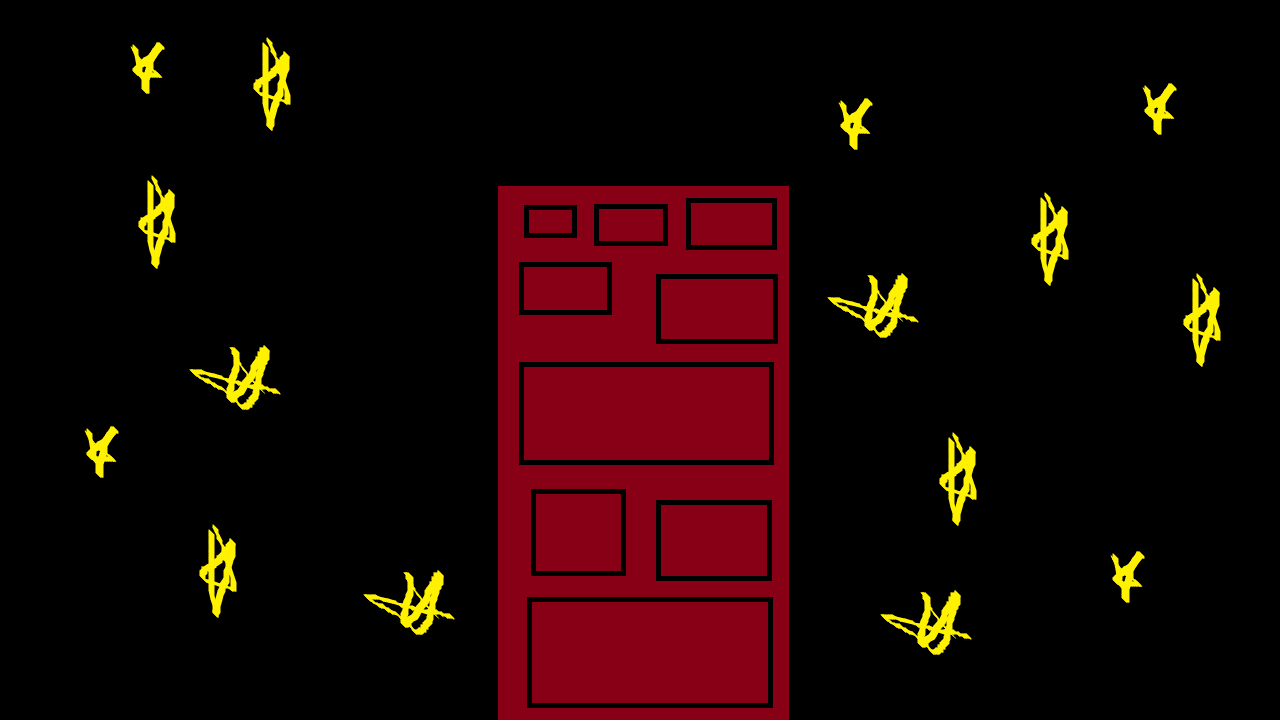
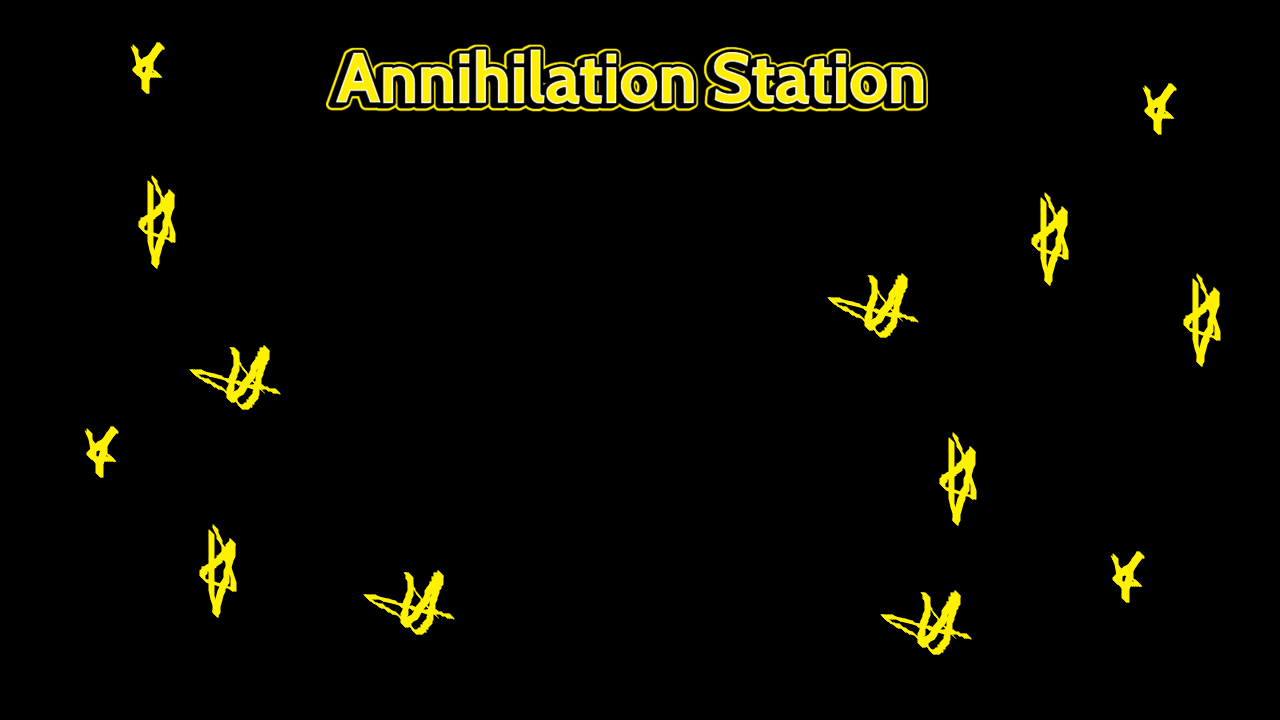
Some artisitic work
^

Changed region(s): [[0.375, 0.2444, 0.625, 1.0], [0.1875, 0.0611, 0.75, 0.2139]]

diff --git a/framework/Main.java b/framework/Main.java
@@ -24,7 +24,7 @@ public class Main implements ActionListener {
 
     public static JFrame theFrame = new JFrame("CPT Game Proto");
 
-    private CustomPanel[] thePanels = {new CustomPanel(null, false), new CustomPanel(null, false), new CustomPanel(null, false), new CustomPanel(null, false), new CustomPanel(null, true)};
+    private CustomPanel[] thePanels = {new CustomPanel(null, false), new CustomPanel(null, false), new CustomPanel(null, false), new CustomPanel(null, false), new CustomPanel(null, true), new CustomPanel(null, true)};
     private JPanel characterPanel = new JPanel(null);
 
     // Game Layered Pane
@@ -66,7 +66,6 @@ public class Main implements ActionListener {
     private BufferedImage BiBrute = null;
     private BufferedImage BiKnight = null;
     private BufferedImage BiVacGrenade = null;
-    private BufferedImage biTitle = resLoader.loadImage("/res\\Title.png");
 
     private Timer timer = new Timer(1000/60, this);
 
@@ -77,7 +76,7 @@ public class Main implements ActionListener {
     public static State state = State.MAIN_MENU;
 
     public enum State {
-        MAIN_MENU(0), HOST_MENU(1), JOIN_MENU(2), SETTINGS(3), GAME(4);
+        MAIN_MENU(0), HOST_MENU(1), JOIN_MENU(2), SETTINGS(3), GAME(4), CHARACTER(5);
 
         private final int intPanelNumber;
 
@@ -164,8 +163,8 @@ public class Main implements ActionListener {
 
         // Character Panel Components /////////////////////////////////////////////////////////////
         for(int intCount = 0; intCount < characterButtons.length; intCount++) {
-            characterButtons[intCount].setSize(100,100);
-            characterButtons[intCount].setLocation((intCount < 2) ? 100 + 100 * intCount : 100 + 100 * (intCount - 2), (intCount < 2) ? 100 : 200);
+            characterButtons[intCount].setSize(300,300);
+            characterButtons[intCount].setLocation((intCount < 2) ? 300 + 300 * intCount : 300 + 300 * (intCount - 2), (intCount < 2) ? 10 : 310);
             characterButtons[intCount].addActionListener(this);
             characterPanel.add(characterButtons[intCount]);
         }
@@ -178,8 +177,8 @@ public class Main implements ActionListener {
         }
 
         // Will redo this
-        buttonReady.setSize(100, 100);
-        buttonReady.setLocation(950, 175);
+        buttonReady.setSize(800, 80);
+        buttonReady.setLocation(200, 630);
         buttonReady.addActionListener(this);
         buttonReady.setEnabled(false);
         characterPanel.add(buttonReady);
@@ -345,6 +344,7 @@ public class Main implements ActionListener {
                 } else if(strMessage.contains("mCHARACTER_PANEL")) {
                     theFrame.setContentPane(characterPanel);
                     theFrame.pack();
+                    state = State.CHARACTER;
                 } else if(strMessage.contains("mGAME_PANEL")) {
                     state = State.GAME;
 
@@ -473,6 +473,7 @@ public class Main implements ActionListener {
             ssm.sendText("h>a>mCHARACTER_PANEL");
             theFrame.setContentPane(characterPanel);
             theFrame.pack();
+            state = State.CHARACTER;
         }
 
         if(evt.getSource() == buttonReady) {

diff --git a/components/CustomPanel.java b/components/CustomPanel.java
@@ -7,10 +7,13 @@ import java.awt.image.BufferedImage;
 import javax.swing.JPanel;
 
 import framework.Main;
+import framework.ResourceLoader;
 
 
 public class CustomPanel extends JPanel {
-    private BufferedImage biTitle = null;
+
+    private ResourceLoader resLoader = new ResourceLoader();
+    private BufferedImage biTitle = resLoader.loadImage("/res\\Title.png");
     public CustomPanel() {
         super();
     }
@@ -28,7 +31,7 @@ public class CustomPanel extends JPanel {
         if(Main.state == Main.State.MAIN_MENU) {
             g.setColor(Color.black);
             g.fillRect(0, 0, getWidth(), getHeight());
-            g.drawImage(null, ALLBITS, ABORT, getFocusCycleRootAncestor());
+            g.drawImage(biTitle, 0, 0, null);
         } else if(Main.state == Main.State.HOST_MENU) {
             g.setColor(Color.black);
             g.fillRect(0, 0, getWidth(), getHeight());
@@ -36,6 +39,9 @@ public class CustomPanel extends JPanel {
             g.setColor(Color.black);
             g.fillRect(0, 0, getWidth(), getHeight());
         } else if(Main.state == Main.State.SETTINGS) {
+            g.setColor(Color.black);
+            g.fillRect(0, 0, getWidth(), getHeight());
+        } else if(Main.state == Main.State.CHARACTER){
             g.setColor(Color.black);
             g.fillRect(0, 0, getWidth(), getHeight());
         } else if(Main.state == Main.State.GAME) {
